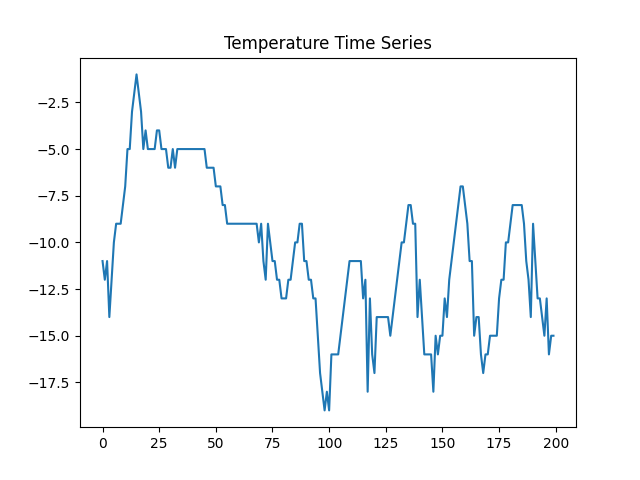
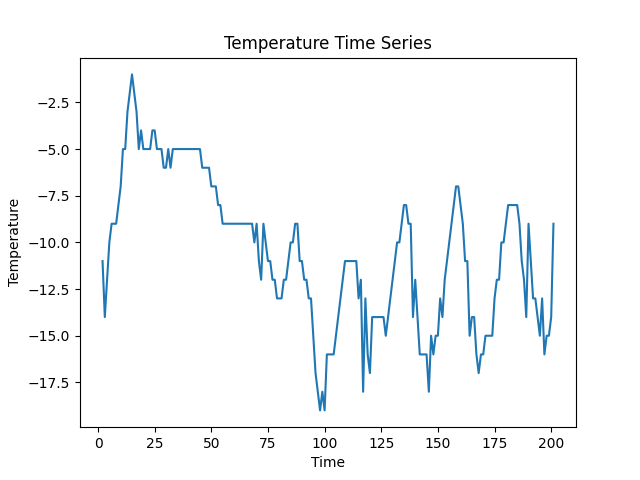
Code and output updations
Improving code and changing compoenets and iterations

diff --git a/Weather.py b/Weather.py
@@ -1,0 +1,124 @@
+import numpy as np
+import pandas as pd
+import matplotlib.pyplot as plt
+import seaborn as sns
+from hmmlearn import hmm
+from sklearn.preprocessing import StandardScaler
+from sklearn.metrics import accuracy_score, confusion_matrix, classification_report
+from sklearn.model_selection import train_test_split
+
+print("Weather Prediction using Hidden Markov Model")
+
+# Load dataset
+data = pd.read_csv("BeijingPM2.5.csv")
+
+# Select features
+data = data[['TEMP', 'DEWP', 'PRES', 'Iws']]
+data = data.dropna()
+
+# Feature Engineering (Moving Average)
+data['TEMP_MA'] = data['TEMP'].rolling(3).mean()
+data['DEWP_MA'] = data['DEWP'].rolling(3).mean()
+data['PRES_MA'] = data['PRES'].rolling(3).mean()
+data['Iws_MA'] = data['Iws'].rolling(3).mean()
+data = data.dropna()
+
+# Better Weather Labels
+def weather_label(row):
+    if row['TEMP'] < 5 and row['PRES'] > 1020:
+        return 0  # Cold
+    elif row['TEMP'] > 25 and row['DEWP'] > 10:
+        return 1  # Hot Humid
+    elif row['Iws'] > 30:
+        return 2  # Windy
+    else:
+        return 3  # Mild
+
+data['WeatherLabel'] = data.apply(weather_label, axis=1)
+
+# Features
+X = data[['TEMP','DEWP','PRES','Iws','TEMP_MA','DEWP_MA','PRES_MA','Iws_MA']].values
+y = data['WeatherLabel'].values
+
+# Normalize
+scaler = StandardScaler()
+X = scaler.fit_transform(X)
+
+# Train Test Split
+X_train, X_test, y_train, y_test = train_test_split(
+    X, y, test_size=0.3, shuffle=False
+)
+
+# Train HMM
+model = hmm.GaussianHMM(
+    n_components=5,
+    covariance_type="full",
+    n_iter=400
+)
+model.fit(X_train)
+
+# Predict hidden states
+train_states = model.predict(X_train)
+test_states = model.predict(X_test)
+
+# Map states to labels
+state_mapping = {}
+for i in range(5):
+    mask = (train_states == i)
+    if np.sum(mask) > 0:
+        state_mapping[i] = np.bincount(y_train[mask]).argmax()
+
+y_pred = np.array([state_mapping[s] for s in test_states])
+
+# PERFORMANCE METRICS
+print("\n===== PERFORMANCE METRICS =====")
+print("Accuracy:", accuracy_score(y_test, y_pred))
+
+print("\nClassification Report:")
+print(classification_report(y_test, y_pred, zero_division=0))
+
+# Confusion Matrix
+cm = confusion_matrix(y_test, y_pred)
+plt.figure()
+sns.heatmap(cm, annot=True, fmt="d")
+plt.title("Confusion Matrix")
+plt.xlabel("Predicted")
+plt.ylabel("Actual")
+plt.show()
+
+# Transition Matrix
+plt.figure()
+sns.heatmap(model.transmat_, annot=True)
+plt.title("Transition Probability Matrix")
+plt.xlabel("To State")
+plt.ylabel("From State")
+plt.show()
+
+# Hidden State Sequence
+plt.figure()
+plt.plot(test_states[:200])
+plt.title("Hidden State Sequence")
+plt.xlabel("Time")
+plt.ylabel("State")
+plt.show()
+
+# Temperature Time Series
+plt.figure()
+plt.plot(data['TEMP'][:200])
+plt.title("Temperature Time Series")
+plt.xlabel("Time")
+plt.ylabel("Temperature")
+plt.show()
+
+# State Distribution
+plt.figure()
+sns.countplot(x=test_states)
+plt.title("Hidden State Distribution")
+plt.xlabel("State")
+plt.ylabel("Count")
+plt.show()
+
+# Log Likelihood
+print("\nLog Likelihood:", model.score(X_train))
+
+print("\nProject Completed")
